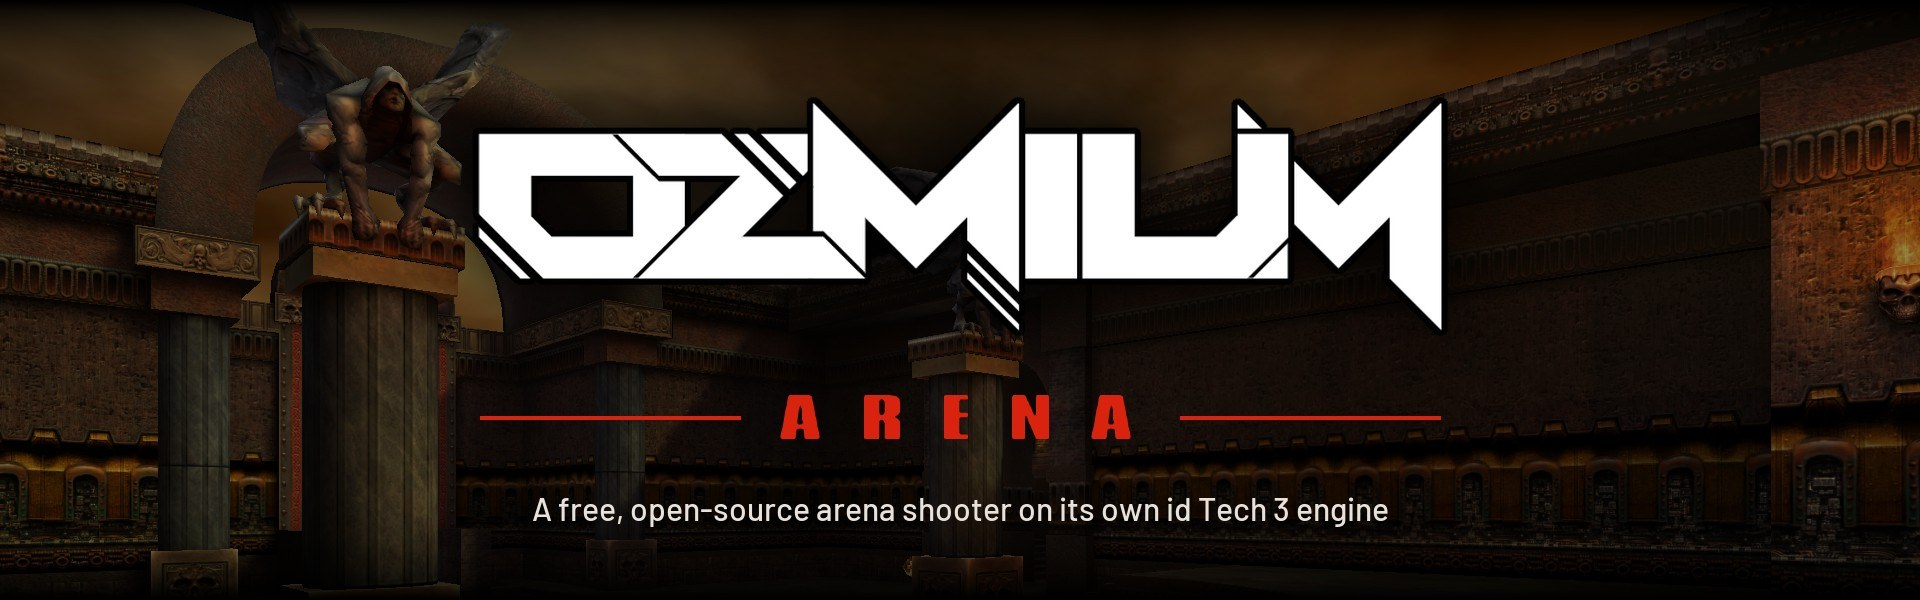
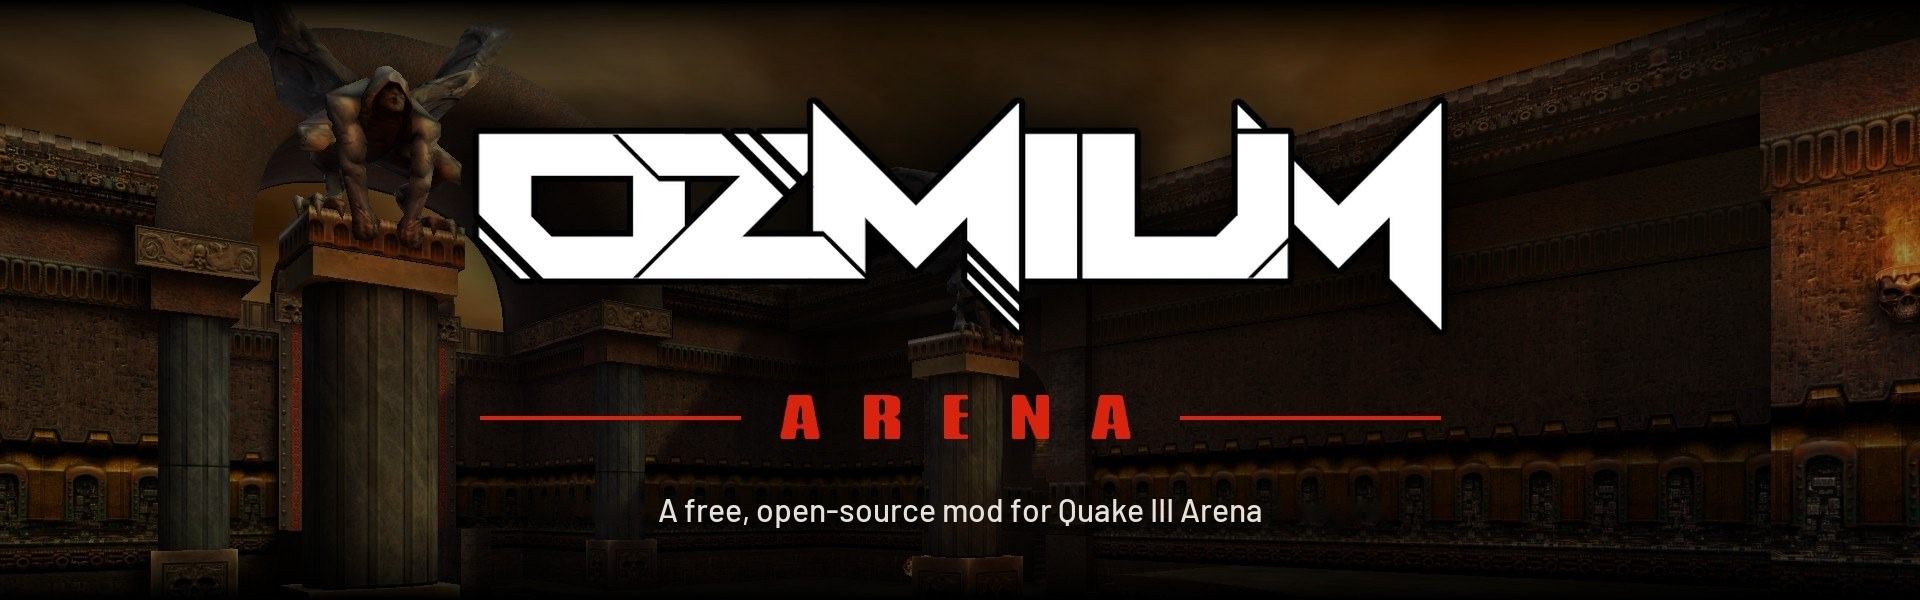
GitHub page: call Oz Arena a mod for Quake III Arena, not its own game
Source snapshot of Oz Arena at bc5a6922.

Changed region(s): [[0.2812, 0.84, 0.7188, 0.87]]

diff --git a/README.md b/README.md
@@ -2,7 +2,7 @@
 
 # Oz Arena
 
-**A free, open-source arena shooter on its own id Tech 3 engine.** Oz Arena takes the game you already own, Quake III Arena, and remakes how it looks, sounds and plays on a PC today: remastered textures and relit arenas, rigged fighters with ragdolls, remade effects, new menus and HUD, a map editor, and a browser that joins any community server: vanilla, CPMA or Defrag.
+**A free, open-source mod for Quake III Arena.** Oz Arena is a heavily modified Quake III Arena client: it takes the game you already own and remakes how it looks, sounds and plays on a PC today: remastered textures and relit arenas, rigged fighters with ragdolls, remade effects, new menus and HUD, a map editor, and a browser that joins any community server: vanilla, CPMA or Defrag.
 
 ![q3dm7 in Oz Arena](docs/screenshots/hero.jpg)
 
